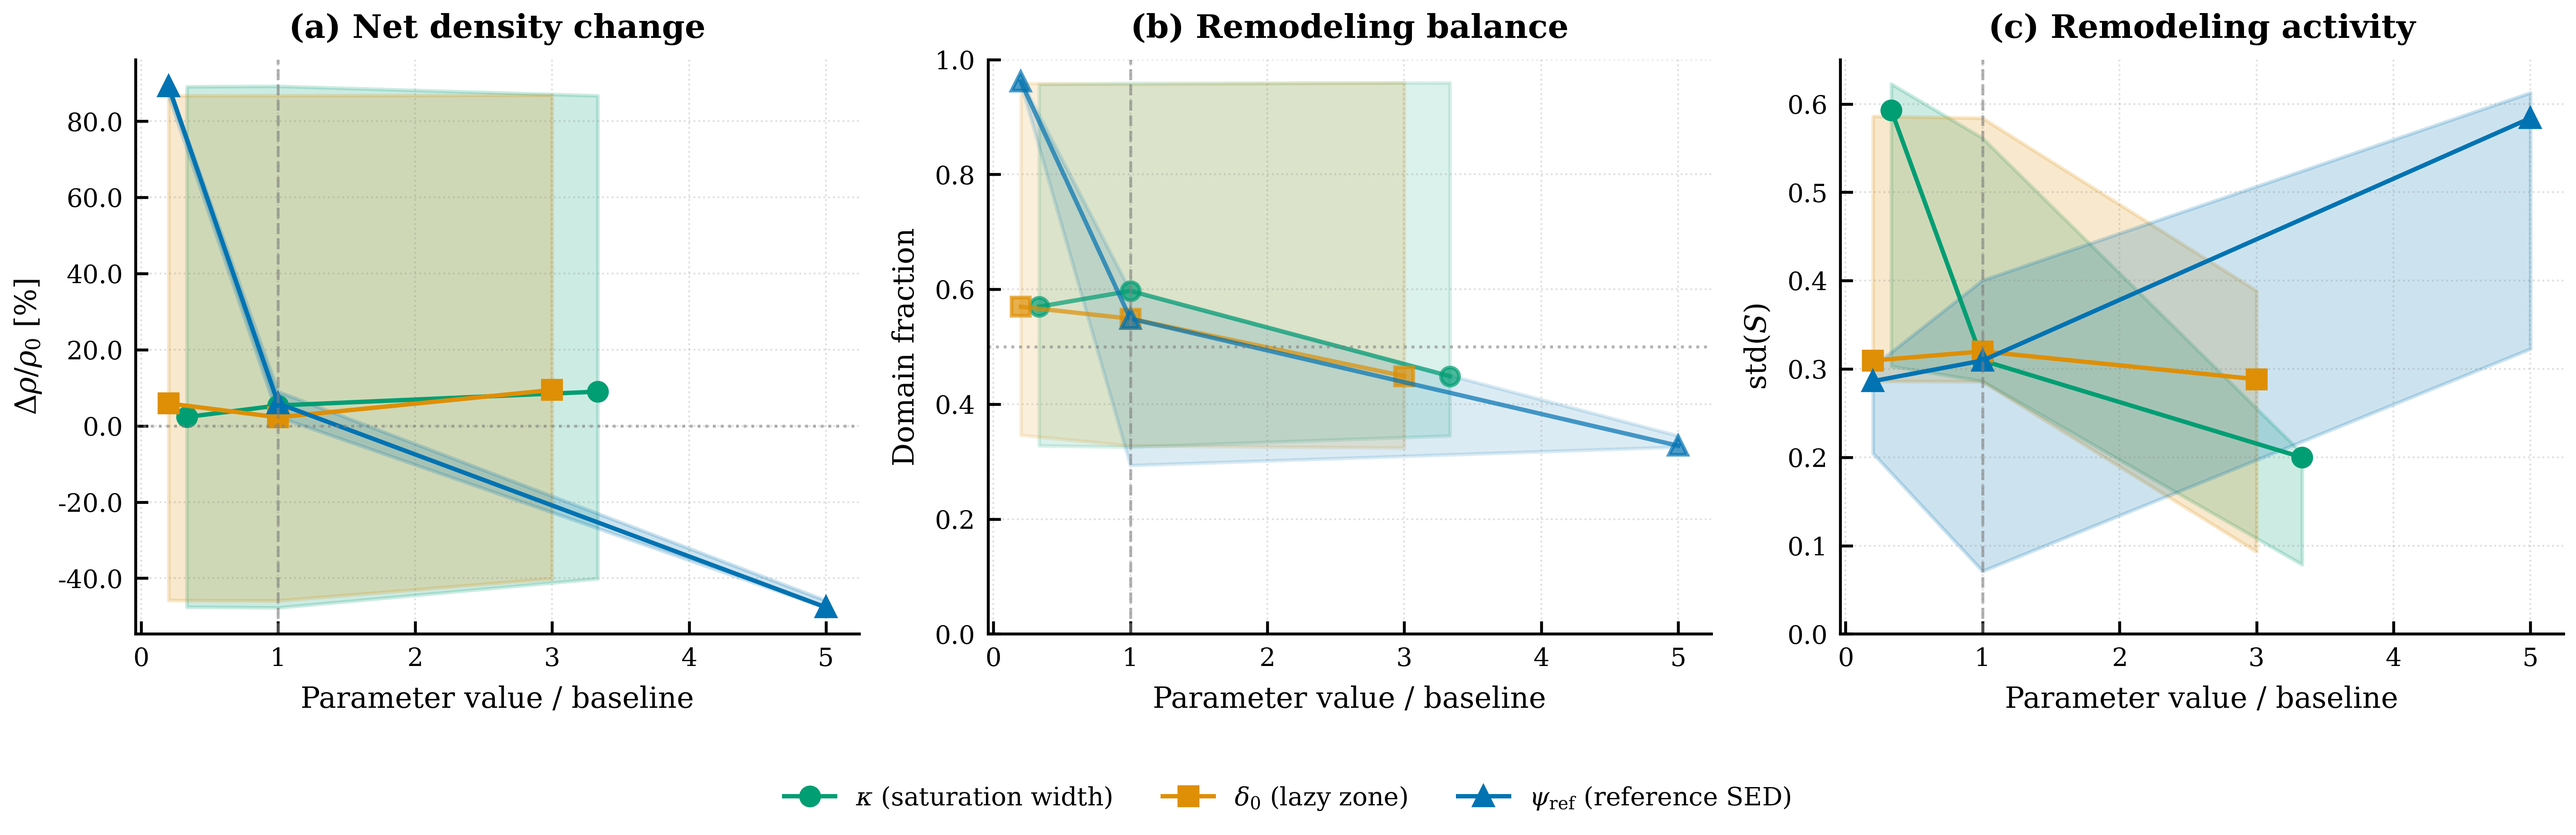
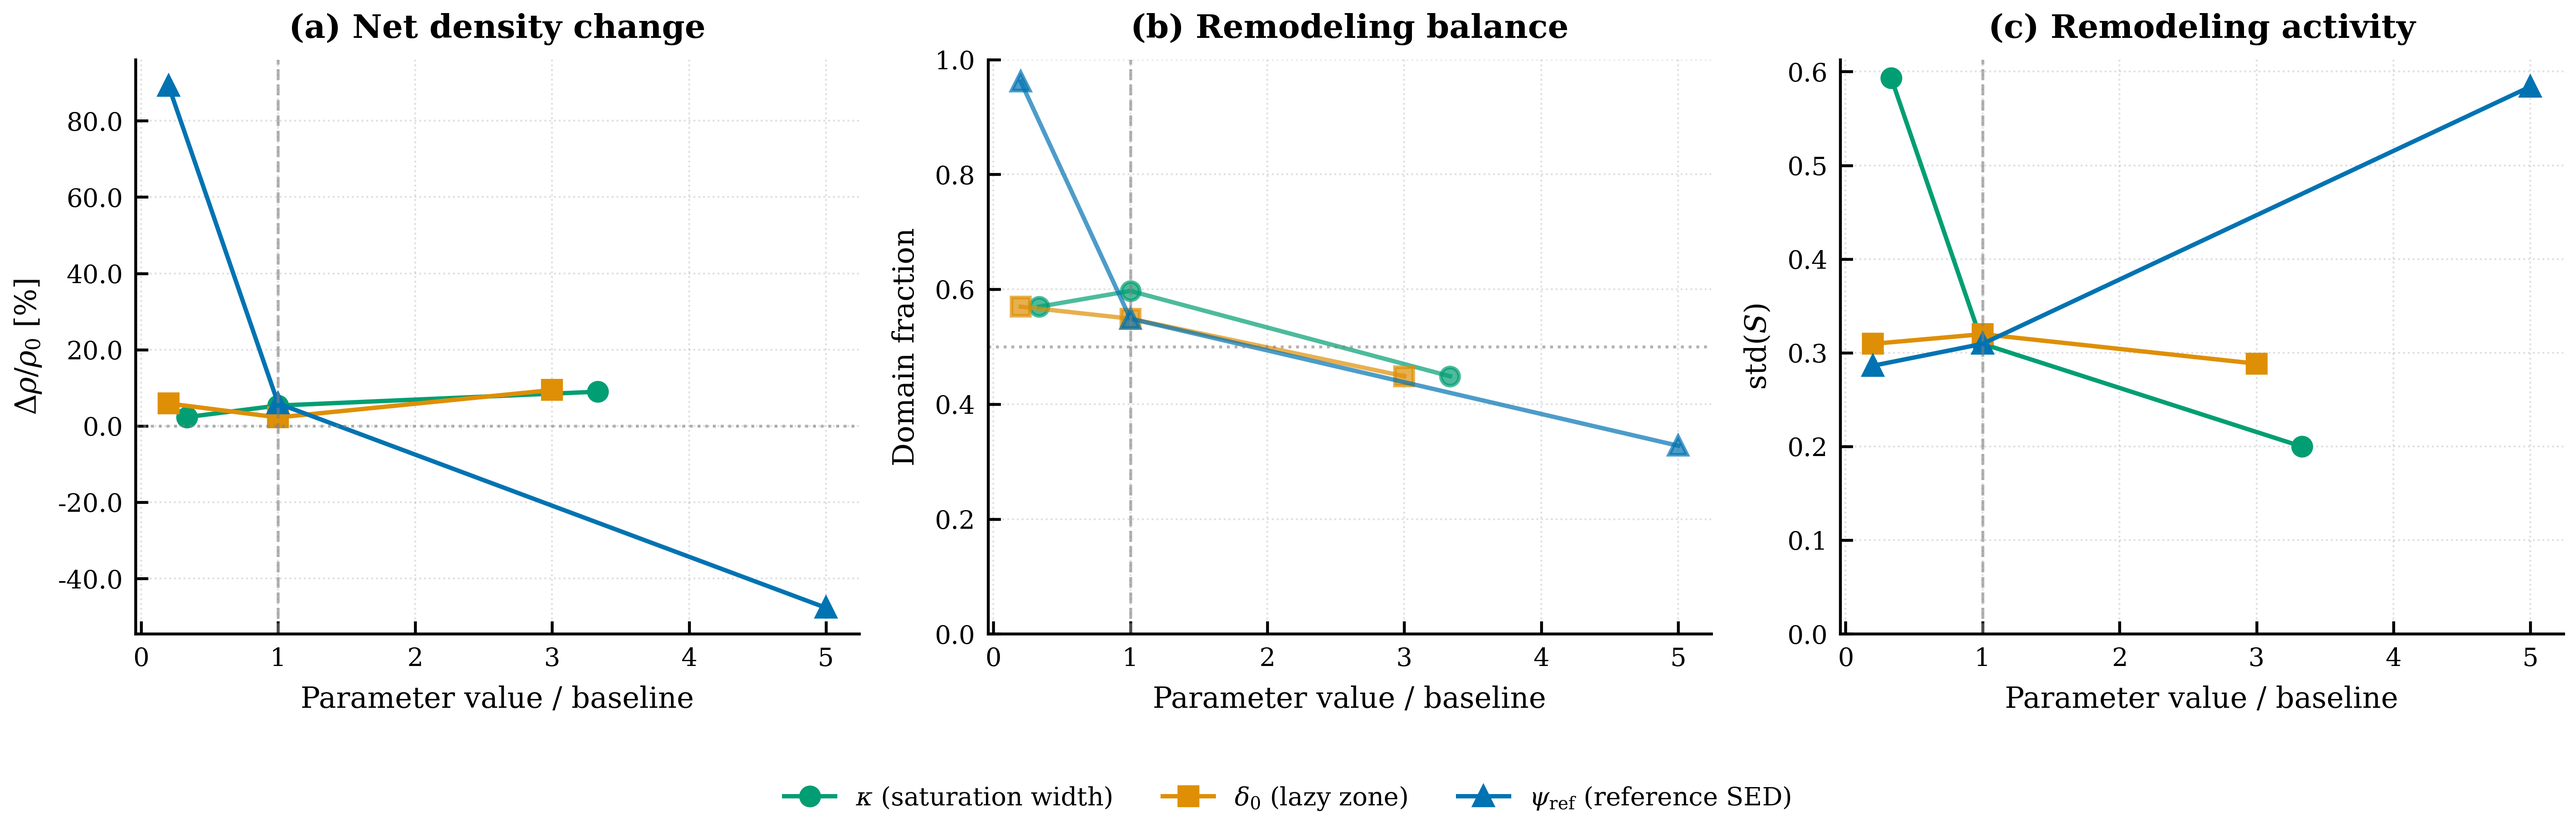
refactor: Update diffusion analysis plots to use median and IQR for better statistical representation

diff --git a/analysis/diffusion_analysis.py b/analysis/diffusion_analysis.py
@@ -561,11 +561,11 @@ def create_diagnostic_figure(
 
     legend_handles = [
         Line2D([0], [0], color="#555555", marker="o", linestyle="-", linewidth=PLOT_LINEWIDTH, markersize=4,
-               label="Roughness ratio (mean)"),
+               label="Roughness ratio (median; IQR shaded)"),
         Line2D([0], [0], color="black", marker="o", linestyle="--", linewidth=PLOT_LINEWIDTH, markersize=3,
-               label="Picard iters/step (mean)"),
+               label="Picard iters/step (median; IQR shaded)"),
         Line2D([0], [0], color="#555555", marker="o", linestyle="", markersize=4, alpha=0.35,
-               label="Individual runs"),
+               label="All runs (scatter)"),
         Line2D([0], [0], color="gray", linestyle="--", linewidth=1.0, alpha=0.8,
                label=r"Baseline ($D=D_{\mathrm{ref}}$)"),
     ]
@@ -591,14 +591,18 @@ def _plot_diffusion_impact_panel(
 ) -> None:
     """Plot marginal impact of a diffusion coefficient on (i) smoothness and (ii) solver cost.
 
-    - Primary axis (left): roughness_ratio (scatter + mean)
-    - Secondary axis (right): avg_picard_per_step (mean)
+    - Primary axis (left): roughness_ratio (scatter + median + IQR band)
+    - Secondary axis (right): avg_picard_per_step (median + IQR band)
     """
     values = sorted(df[param_name].unique())
     factors = np.array([float(v) / baseline for v in values], dtype=float)
 
-    rough_mean = np.zeros_like(factors)
-    cost_mean = np.zeros_like(factors)
+    rough_med = np.zeros_like(factors)
+    rough_q25 = np.zeros_like(factors)
+    rough_q75 = np.zeros_like(factors)
+    cost_med = np.zeros_like(factors)
+    cost_q25 = np.zeros_like(factors)
+    cost_q75 = np.zeros_like(factors)
 
     # Scatter all combinations for this parameter level (jittered in log-x)
     for i, v in enumerate(values):
@@ -607,8 +611,8 @@ def _plot_diffusion_impact_panel(
         rough_vals = subset["roughness_ratio"].to_numpy(dtype=float)
         cost_vals = subset["avg_picard_per_step"].to_numpy(dtype=float)
 
-        rough_mean[i] = np.mean(rough_vals)
-        cost_mean[i] = np.mean(cost_vals)
+        rough_med[i], rough_q25[i], rough_q75[i] = _summarize(rough_vals)
+        cost_med[i], cost_q25[i], cost_q75[i] = _summarize(cost_vals)
 
         # Multiplicative jitter in log space (stable and scale-invariant)
         jitter = 10.0 ** rng.uniform(-0.02, 0.02, size=rough_vals.size)
@@ -617,15 +621,16 @@ def _plot_diffusion_impact_panel(
             rough_vals,
             s=18,
             color=color,
-            alpha=0.4,  # Slightly more opaque since we removed the band
+            alpha=0.25,
             edgecolors="none",
             zorder=2,
         )
 
-    # Mean line (roughness)
+    # Median + IQR band (roughness)
+    ax.fill_between(factors, rough_q25, rough_q75, color=color, alpha=0.12, linewidth=0, zorder=1)
     ax.plot(
         factors,
-        rough_mean,
+        rough_med,
         color=color,
         marker=DIFFUSION_MARKERS.get(param_name, "o"),
         linewidth=PLOT_LINEWIDTH,
@@ -633,11 +638,12 @@ def _plot_diffusion_impact_panel(
         zorder=3,
     )
 
-    # Secondary axis: solver cost (mean)
+    # Secondary axis: solver cost (median + IQR)
     ax2 = ax.twinx()
+    ax2.fill_between(factors, cost_q25, cost_q75, color="black", alpha=0.06, linewidth=0, zorder=1)
     ax2.plot(
         factors,
-        cost_mean,
+        cost_med,
         color="black",
         linestyle="--",
         marker="o",
